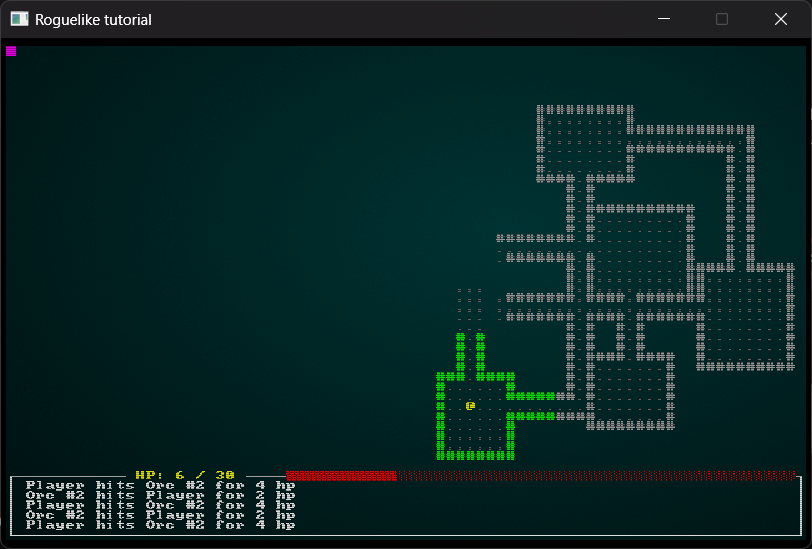
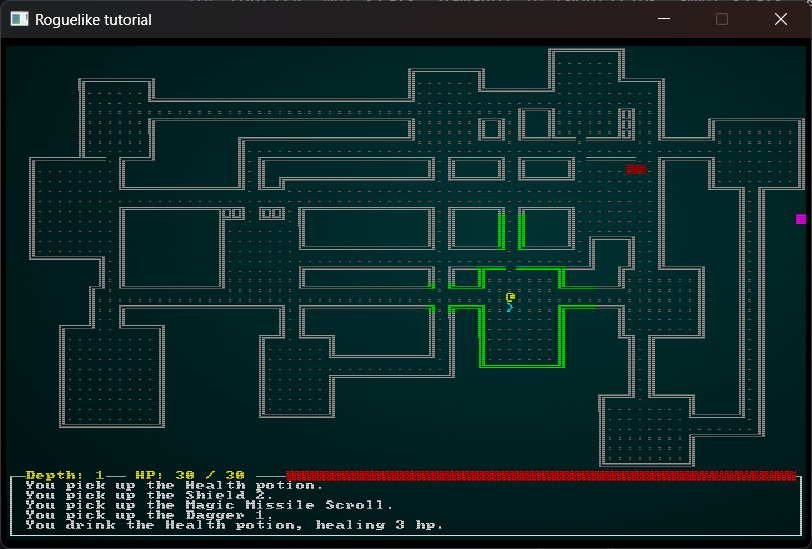
Implemented bloodstains

diff --git a/src/systems/damage_system.rs b/src/systems/damage_system.rs
@@ -1,6 +1,6 @@
 use specs::prelude::*;
 
-use crate::components::{CombatStats, Player, SufferDamage};
+use crate::{components::{CombatStats, Player, SufferDamage, Position}, map::Map};
 
 #[derive(Clone, Copy)]
 pub struct DamageSystem {}
@@ -9,14 +9,21 @@ impl<'a> System<'a> for DamageSystem {
     type SystemData = (
         WriteStorage<'a, CombatStats>,
         WriteStorage<'a, SufferDamage>,
+        ReadStorage<'a, Position>,
+        WriteExpect<'a, Map>,
+        Entities<'a>
     );
 
     fn run(&mut self, data: Self::SystemData) {
-        let (mut stats, mut damage) = data;
+        let (mut stats, mut damage, positions, mut map, entities) = data;
 
-        for (mut stats, damage) in (&mut stats, &damage).join() {
+        for (entity, mut stats, damage) in (&entities, &mut stats, &damage).join() {
             let total_damage = damage.amount.iter().sum::<u32>();
             stats.damage(total_damage);
+            if let Some(pos) = positions.get(entity) {
+                let idx = map.index_from_xy(pos.x, pos.y);
+                map.bloodstains.insert(idx);
+            }
         }
 
         damage.clear();

diff --git a/src/gui.rs b/src/gui.rs
@@ -19,11 +19,14 @@ fn draw_map(ctx: &mut Rltk, map: &Fetch<Map>) {
     let floor_fg = RGB::from_f32(0.5, 0.5, 0.5);
     let wall_fg = RGB::from_f32(0.0, 1.0, 0.0);
     let downstairs_fg = RGB::from_f32(0.0, 1.0, 1.0);
-    let bg = RGB::from_f32(0., 0., 0.);
     let floor = rltk::to_cp437('.');
     let downstairs = rltk::to_cp437('>');
 
+    let default_bg = RGB::from_f32(0., 0., 0.);
+    let bloodstain_bg = RGB::from_f32(0.75, 0., 0.);
+
     for (idx, tile) in map.tiles.iter().enumerate() {
+        let mut bg = default_bg;
         // Render a title depending upon the tile type
         if map.revealed_tiles[idx] {
             let (x, y) = map.xy_from_index(&idx);
@@ -42,6 +45,9 @@ fn draw_map(ctx: &mut Rltk, map: &Fetch<Map>) {
                     glyph = downstairs;
                     fg = downstairs_fg;
                 }
+            }
+            if map.bloodstains.contains(&idx) {
+                bg = bloodstain_bg;
             }
             if !map.visible_tiles[idx] {
                 fg = fg.to_greyscale();

diff --git a/src/map.rs b/src/map.rs
@@ -1,4 +1,4 @@
-use std::cmp::{max, min};
+use std::{cmp::{max, min}, collections::HashSet};
 
 use rltk::{Algorithm2D, BaseMap, FontCharType, Point, RandomNumberGenerator};
 use serde::{Deserialize, Serialize};
@@ -25,6 +25,7 @@ pub struct Map {
     pub visible_tiles: Vec<bool>,
     pub blocked: Vec<bool>,
     pub depth: u32,
+    pub bloodstains: HashSet<usize>,
 
     #[serde(skip_serializing)]
     #[serde(skip_deserializing)]
@@ -77,6 +78,7 @@ impl Map {
             blocked: vec![false; map_dimensions],
             tile_content: vec![Vec::new(); map_dimensions],
             depth: new_depth,
+            bloodstains: HashSet::new(),
         };
 
         for _ in 0..room_count {
